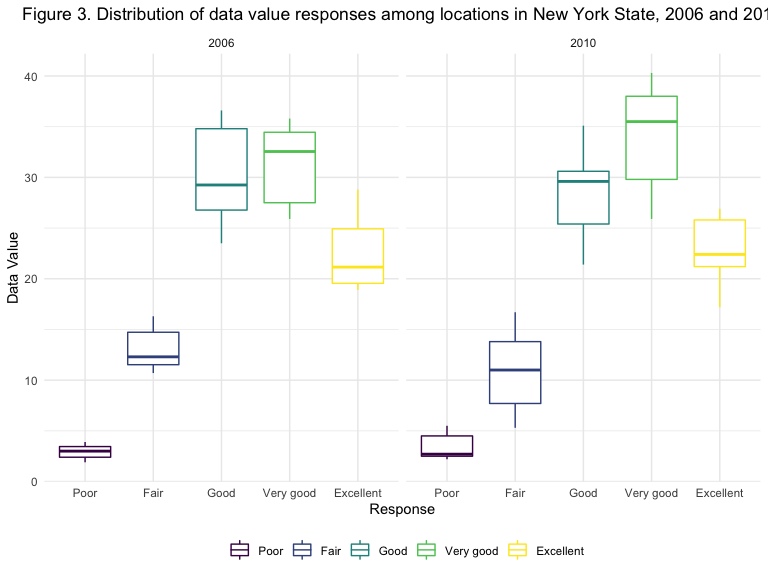
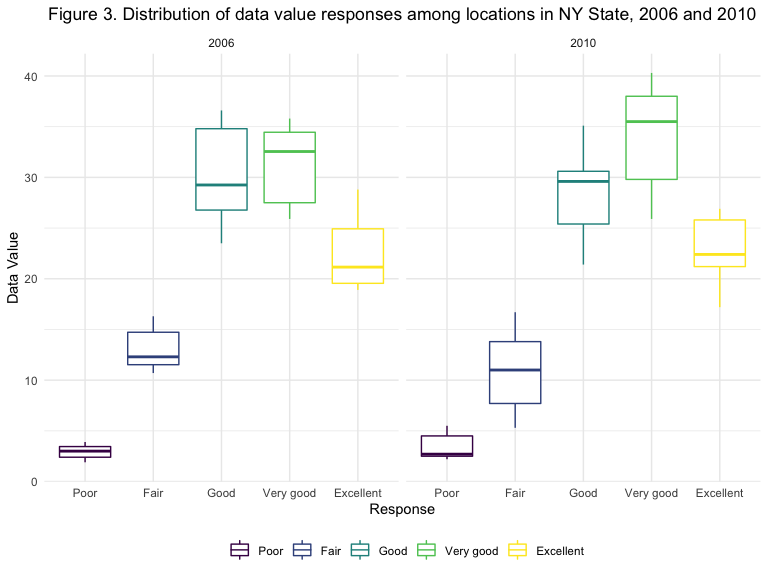
Editing caption for figure 3

Changed region(s): [[0.0312, 0.0, 1.0, 0.0625]]

diff --git a/p8105_hw3_sm4594.md b/p8105_hw3_sm4594.md
@@ -244,7 +244,7 @@ brfss_data %>%
   ggplot(aes(x = response, y = data_value)) + 
   geom_boxplot(aes(color = response)) + 
   facet_grid(~year) + 
-  ggtitle("Figure 3. Distribution of data value responses among locations in New York State, 2006 and 2010") + 
+  ggtitle("Figure 3. Distribution of data value responses among locations in NY State, 2006 and 2010") + 
   theme(plot.title = element_text(hjust = 0.5)) + 
   ylab("Data Value") +
   xlab("Response") +
